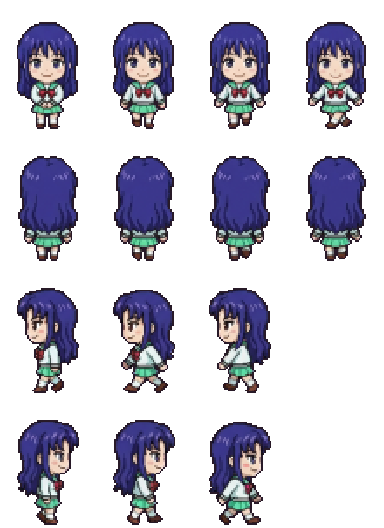
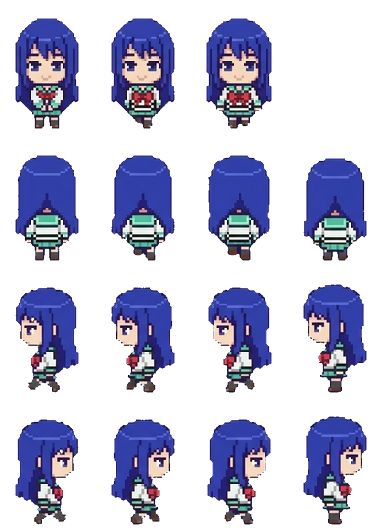
Redraw Teruhashi Kokomi in the shared art style
Claude-Session: https://claude.ai/code/session_01KaPsBYLrtbRfMYNG2xeBCK

diff --git a/docs/app.js b/docs/app.js
@@ -75,7 +75,7 @@ function spr(cat, k, col, sc) {
   return `<div class="clip" style="width:${it[2] * sc}px;height:${it[3] * sc}px;POS"><img class="px" src="assets/decor/${cat}.png" alt="" style="width:${S.sw * sc}px;height:${S.sh * sc}px;margin-left:${-col * S.cw * sc}px;margin-top:${-i * S.ch * sc}px"></div>`;
 }
 const icon = (k, sz) => `<span class="itm" style="width:${sz}px;height:${sz}px"><img class="px" src="assets/ui/items.png" alt="" style="width:${IT.length * sz}px;height:${sz}px;margin-left:${-ITM[k].i * sz}px"></span>`;
-const face = (id, w) => { const s = w / 96; return `<img class="px" src="assets/ch/${id}.webp?v=70" alt="" style="position:absolute;width:${384 * s}px;height:${528 * s}px;left:${-(96 * s - w) / 2}px;top:0;max-width:none">`; };
+const face = (id, w) => { const s = w / 96; return `<img class="px" src="assets/ch/${id}.webp?v=71" alt="" style="position:absolute;width:${384 * s}px;height:${528 * s}px;left:${-(96 * s - w) / 2}px;top:0;max-width:none">`; };
 
 // ---------- 저장 ----------
 let fb = null, user = null, S = null, saveT = null;
@@ -143,7 +143,7 @@ function sleepHTML(id, r, dy) {
   const pos = r.a && r.a[0] === 'bed' ? 'left:3%;bottom:20%' : r.b && r.b[0] === 'bed' ? 'right:3%;bottom:20%' : 'left:calc(50% - 44px);bottom:6%';
   const s = 36 / 96;
   return `<div style="position:absolute;width:88px;height:56px;${pos};z-index:${dy ? 4 : 5};${dy ? `transform:translate(12px,${dy}px)` : ''}"><div style="position:absolute;inset:0;filter:brightness(.22)">
-    <div style="position:absolute;left:11px;top:1px;width:36px;height:50px;overflow:hidden;transform:rotate(-90deg)"><img class="px" src="assets/ch/${id}.webp?v=70" alt="" style="width:${384 * s}px;height:${528 * s}px;max-width:none;margin-top:${-132 * s}px"></div>
+    <div style="position:absolute;left:11px;top:1px;width:36px;height:50px;overflow:hidden;transform:rotate(-90deg)"><img class="px" src="assets/ch/${id}.webp?v=71" alt="" style="width:${384 * s}px;height:${528 * s}px;max-width:none;margin-top:${-132 * s}px"></div>
     <div style="position:absolute;left:19px;top:19px;width:67px;height:29px;border:2px solid var(--ink);border-radius:8px 6px 4px 4px;background:#8ccff5;background-image:repeating-linear-gradient(90deg,transparent 0 10px,rgba(255,255,255,.5) 10px 13px)"></div></div>
     ${dy ? '' : '<span class="emo" style="left:8px;top:-22px;color:#5b6bd6">Z z z</span>'}</div>`;
 }
@@ -153,8 +153,8 @@ function roomHTML(id, o, scale) {
     <div class="floor" style="background-color:${PAL[r.fc][1]};background-image:${tileUrl('floor', r.fl)}"></div>
     ${slot('deco', r.dc, 'left:6%;top:6%')}${slot('furn', r.a, 'left:3%;bottom:20%')}${slot('furn', r.b, 'right:3%;bottom:20%')}${slot('prop', r.pr, 'left:28%;bottom:4%;z-index:2')}
     ${id && o.sleeping && g ? sleepHTML(g, r, -16) : ''}${id && o.sleeping ? sleepHTML(id, r) : ''}${id && o.job ? `<div style="position:absolute;left:50%;top:38%;transform:translateX(-50%);z-index:5;background:#fff;border:3px solid var(--ink);border-radius:10px;padding:6px 10px;font-size:11px;text-align:center;line-height:1.5"><img src="assets/ui/ic_job.png" alt="" style="width:18px;vertical-align:-4px"> ${WORK[id] ? WORK[id][1] : esc(JOB_NAME[id]) + ' 알바 중'}${g ? `<br><small>${esc(nameOf(g))}도 같이</small>` : ''}<br><b id="jobleft">${timeLeft(o.job.until)}</b></div>` : ''}
-    ${id ? `<div class="shadow" id="shd" ${o.sleeping || o.job ? 'style="display:none"' : ''}></div><div class="man" id="man" ${o.sleeping || o.job ? 'style="display:none"' : ''}><img class="px" src="assets/ch/${id}.webp?v=70" alt="${esc(nameOf(id))}"></div><span class="emo" id="emo" hidden></span><span class="mumble" id="mum" hidden></span>` : ''}
-    ${g ? `<div class="shadow" id="gshd" ${hideG}></div><div class="man" id="gman" ${hideG}><img class="px" src="assets/ch/${g}.webp?v=70" alt="${esc(nameOf(g))}"></div><span class="emo" id="gemo" hidden></span><span class="mumble gmum" id="gmum" hidden></span>` : ''}
+    ${id ? `<div class="shadow" id="shd" ${o.sleeping || o.job ? 'style="display:none"' : ''}></div><div class="man" id="man" ${o.sleeping || o.job ? 'style="display:none"' : ''}><img class="px" src="assets/ch/${id}.webp?v=71" alt="${esc(nameOf(id))}"></div><span class="emo" id="emo" hidden></span><span class="mumble" id="mum" hidden></span>` : ''}
+    ${g ? `<div class="shadow" id="gshd" ${hideG}></div><div class="man" id="gman" ${hideG}><img class="px" src="assets/ch/${g}.webp?v=71" alt="${esc(nameOf(g))}"></div><span class="emo" id="gemo" hidden></span><span class="mumble gmum" id="gmum" hidden></span>` : ''}
     ${o.sleeping ? `<div class="night"></div><div class="sleepleft">쿨쿨 · 일어나기까지 <b id="sleepleft">${timeLeft(wakeAt(o)).replace(' 남음', '')}</b></div>` : ''}
   </div>`;
 }
@@ -167,7 +167,7 @@ function meterHTML(o) {
 const ic = (act, img, label, pressed) => `<button class="ic" data-act="${act}" ${pressed ? 'aria-pressed="true"' : ''}><img src="assets/ui/ic_${img}.png?v=2" alt="">${label}</button>`;
 
 let dropStyle = null; const cheat = {};
-const APP_V = 143, COUPONS = { NINOGUYA: 3000 };
+const APP_V = 144, COUPONS = { NINOGUYA: 3000 };
 // 쿠폰 입력 정리: 한글 자판 상태로 친 글자(ㅜㅑㅜㅐ혀ㅛㅁ)도 영어 자판 글자로 바꾸고, 대소문자·띄어쓰기·마침표는 무시해요
 const KEY = { ㄱ: 'r', ㄲ: 'R', ㄴ: 's', ㄷ: 'e', ㄸ: 'E', ㄹ: 'f', ㅁ: 'a', ㅂ: 'q', ㅃ: 'Q', ㅅ: 't', ㅆ: 'T', ㅇ: 'd', ㅈ: 'w', ㅉ: 'W', ㅊ: 'c', ㅋ: 'z', ㅌ: 'x', ㅍ: 'v', ㅎ: 'g',
   ㅏ: 'k', ㅐ: 'o', ㅑ: 'i', ㅒ: 'O', ㅓ: 'j', ㅔ: 'p', ㅕ: 'u', ㅖ: 'P', ㅗ: 'h', ㅘ: 'hk', ㅙ: 'ho', ㅚ: 'hl', ㅛ: 'y', ㅜ: 'n', ㅝ: 'nj', ㅞ: 'np', ㅟ: 'nl', ㅠ: 'b', ㅡ: 'm', ㅢ: 'ml', ㅣ: 'l',
@@ -407,7 +407,7 @@ function startTrip(k) {
   if (tg) lines[1] = `${nameOf(tg)}: ${withHim(sub(pick(GLX(tg).trip), o, c.n), tg)}`;
   const n = (FR[id] || [4, 4, 4, 4])[3], el = document.createElement('div'); el.className = 'tripview';
   el.innerHTML = `<div class="tsay"> </div><div class="tstage" style="background-image:url(assets/travel/${k}.png?v=2)"><div class="tplace">${esc(c.n)}</div>
-    <div class="twalker"><img class="px" src="assets/ch/${id}.webp?v=70" alt=""></div>${tg ? `<div class="twalker tgirl"><img class="px" src="assets/ch/${tg}.webp?v=70" alt=""></div>` : ''}<span class="emo tjoy">♪</span></div>
+    <div class="twalker"><img class="px" src="assets/ch/${id}.webp?v=71" alt=""></div>${tg ? `<div class="twalker tgirl"><img class="px" src="assets/ch/${tg}.webp?v=71" alt=""></div>` : ''}<span class="emo tjoy">♪</span></div>
     <div class="tbar"><i></i></div><button class="btn white tskip" data-tskip="1">바로 돌아오기</button>`;
   document.body.appendChild(el);
   const gimg = el.querySelector('.tgirl img'), gn = tg ? (FR[tg] || [4, 4, 4, 4])[3] : 1;
@@ -665,7 +665,7 @@ setInterval(() => { if (S && user) { tickTime(); save(); } }, 60000);
     if (nv > APP_V && !location.search.includes('u=' + nv)) { location.replace(location.pathname + '?u=' + nv); return; }
   } catch { }
   app.innerHTML = '<div class="start"><div class="egg"><div class="scr"></div></div><div class="note">불러오는 중....</div></div>';
-  const [c, t, f, it, mu, ct, tv, gl, sts] = await Promise.all(['data/chars.json', 'data/talk.json', 'data/frames.json', 'data/items.json', 'data/mumble.json', 'data/countries.json', 'data/travel.json', 'data/girls.json', 'data/sets.json'].map(u => fetch(u + '?v=143').then(r => r.ok ? r.json() : {})));
+  const [c, t, f, it, mu, ct, tv, gl, sts] = await Promise.all(['data/chars.json', 'data/talk.json', 'data/frames.json', 'data/items.json', 'data/mumble.json', 'data/countries.json', 'data/travel.json', 'data/girls.json', 'data/sets.json'].map(u => fetch(u + '?v=144').then(r => r.ok ? r.json() : {})));
   CH = c; CHM = Object.fromEntries(c.map(x => [x.id, x])); TALK = t; FR = f; IT = it; ITM = Object.fromEntries(it.map(x => [x.k, x])); MUM = mu; CTRY = ct; TRV = tv; GL = Array.isArray(gl) ? gl : []; SETS = Array.isArray(sts) ? sts : []; GLM = Object.fromEntries(GL.map(x => [x.id, x]));
   try { await initFirebase(); } catch (e) { console.warn('Firebase 연결 실패, 기기 저장으로', e); fb = null; }
   if (fb) {

diff --git a/docs/index.html b/docs/index.html
@@ -18,6 +18,6 @@
 <main id="app" aria-live="polite"></main>
 <div id="toast" role="status" hidden></div>
 <script src="firebase-config.js?v=3"></script>
-<script type="module" src="app.js?v=143"></script>
+<script type="module" src="app.js?v=144"></script>
 </body>
 </html>
